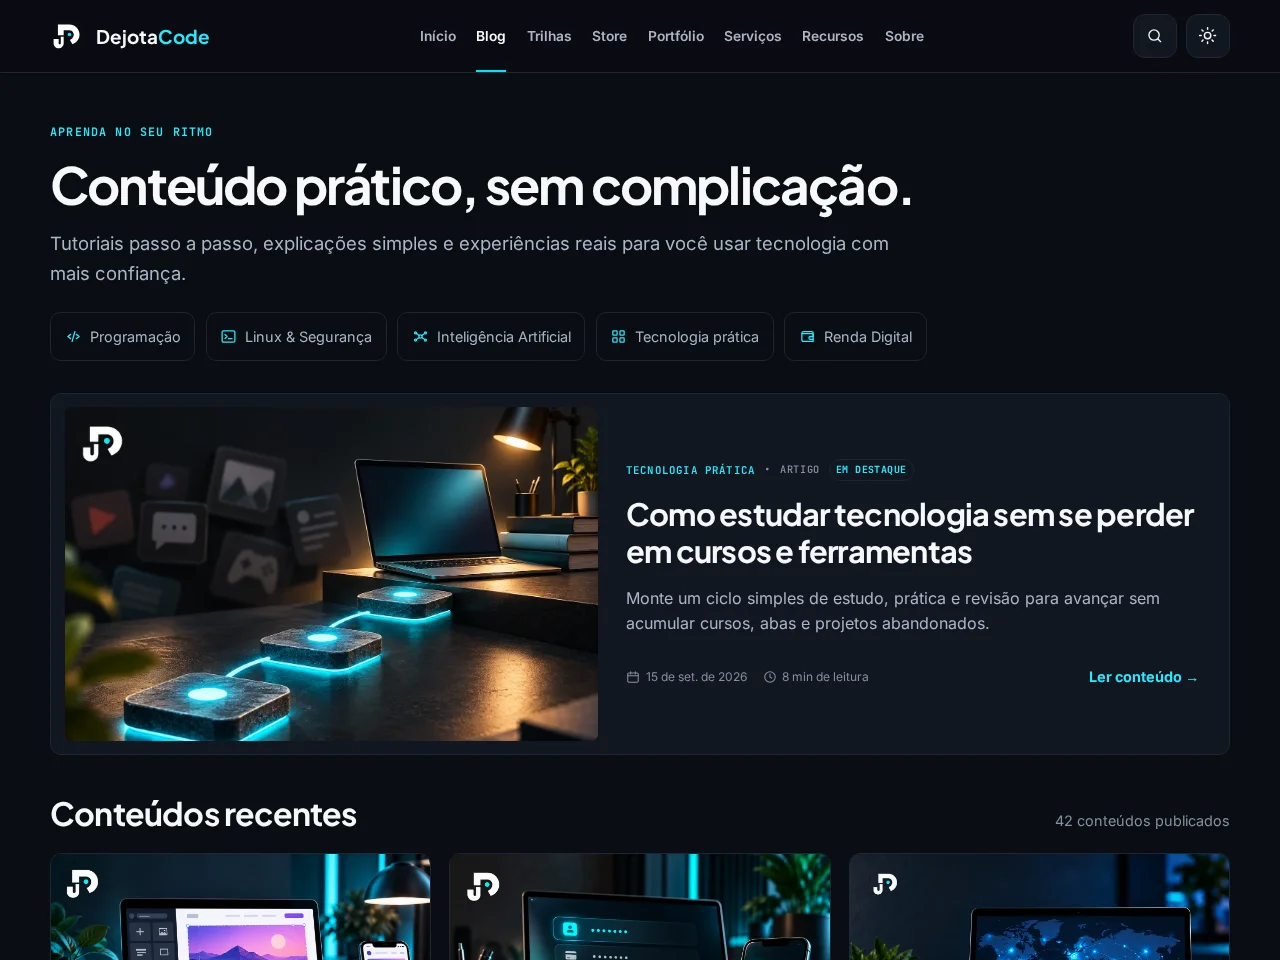
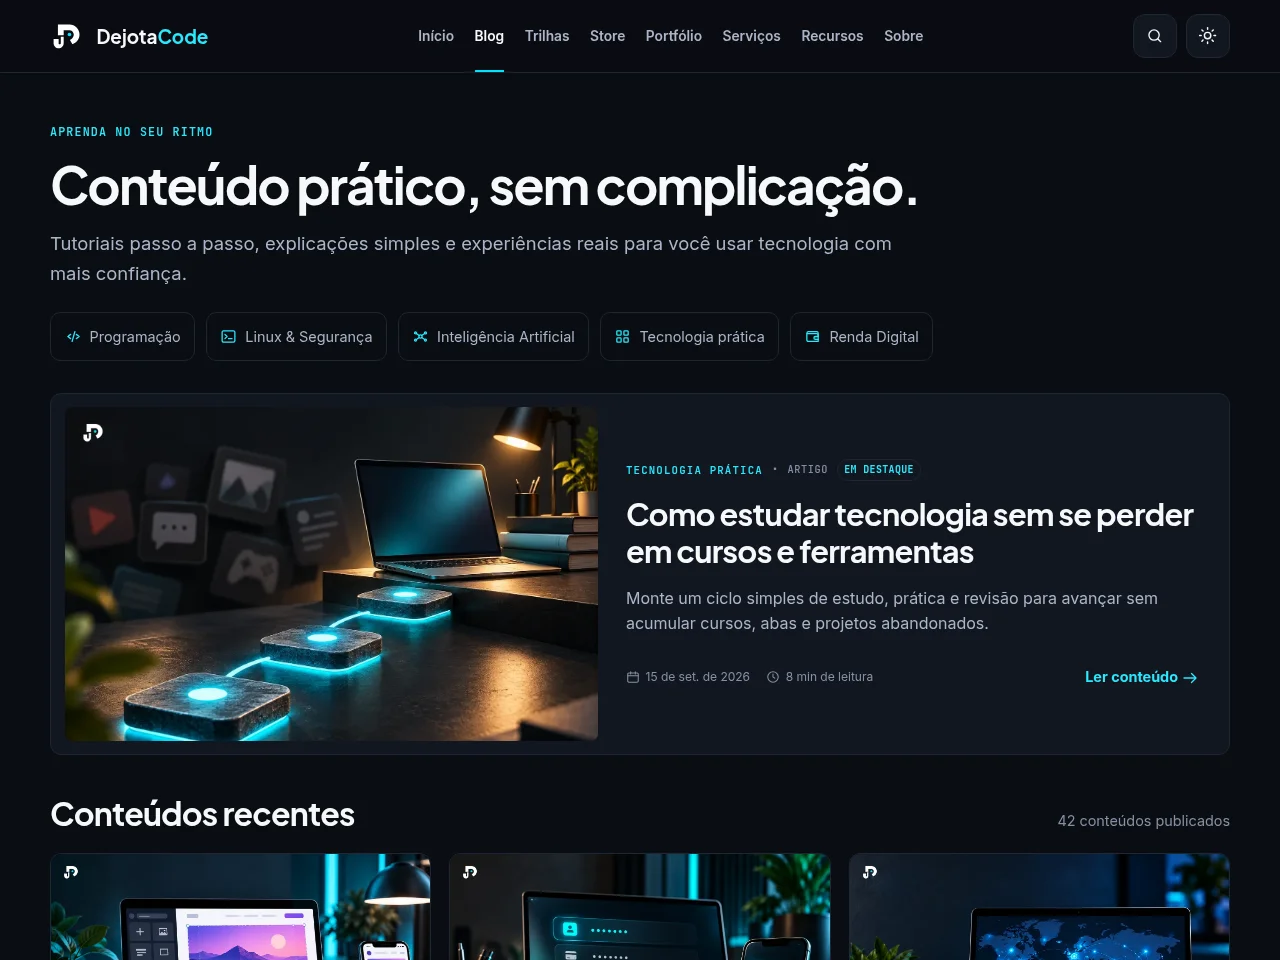
Atualiza capturas do Portfólio e notebook após assinaturas

diff --git a/docs/frontend-review.md b/docs/frontend-review.md
@@ -350,3 +350,9 @@ WebP qualidade 90: lote de 38,63 para 6,16 MiB, redução de 84,1%. Mestres loss
 Recortes ancorados no topo esquerdo para as novas assinaturas em VisualMedia, StoreCard, hero Home e recomendações de artigos. Degradê da Home preservado; ele atenua decorativamente o símbolo na borda da mídia, sem alterar o raster ou duplicar a marca.
 Validação final: check 78 arquivos sem erros/avisos/hints, build 115 páginas, QA de links/HTML aprovado. 81 rotas × 320/390/768/1440 × claro/escuro = 648 combinações, 2.088 instâncias das novas imagens carregadas; zero overflow e caixas de assinatura integralmente dentro dos recortes. Capturas Store desktop, artigo mobile e Home desktop inspecionadas. Teste intermediário interrompido por recarga do preview durante edição; rodada final estável passou e substitui o resultado intermediário. Sem acessos externos, envios reais ou publicação.
 Evidência resumida: docs/brand/signature-integration-validation.json. Galeria http://localhost:4323/ agora exibe exportações finais; preview do site http://localhost:4321/. Não iniciar 4322. Publicação continua sem autorização; arquivo preexistente Ottocast não incluído nesta alteração.
+
+
+## Capturas sincronizadas após assinaturas — 09/10/2026
+Portfólio: Home, Blog e Trilhas recapturadas do preview 4321, 1280 × 960, escuro; notebook Serviços: Home 1440 × 900, escuro. Mantidos os caminhos estáveis, proporções, moldura CSS e links. Fontes/imagens aguardadas, toolbar oculta por regra persistente durante captura; WebP qualidade 85. Nenhuma assinatura adicionada às capturas reais. Inventário atualizado.
+Check 78 arquivos sem erros/avisos/hints; build 115 páginas; QA de links/HTML aprovado. Portfólio e Serviços em 320/390/768/1440 e claro/escuro: 16 combinações sem overflow, com capturas carregadas. Blog e tela do notebook inspecionados visualmente. Apenas quatro rasters de captura e registros alterados; nada publicado. Frontend continua 4321.
+Padrão de assinaturas e atualização das capturas concluídos localmente. Setup e Termos continuam pendências de confirmação/conteúdo conforme revisão dos esboços; esta atualização não os resolve por inferência.

diff --git a/docs/consolidacao-local-2026-10-09.md b/docs/consolidacao-local-2026-10-09.md
@@ -83,3 +83,9 @@ WebP qualidade 90: lote de 38,63 para 6,16 MiB, redução de 84,1%. Mestres loss
 Recortes ancorados no topo esquerdo para as novas assinaturas em VisualMedia, StoreCard, hero Home e recomendações de artigos. Degradê da Home preservado; ele atenua decorativamente o símbolo na borda da mídia, sem alterar o raster ou duplicar a marca.
 Validação final: check 78 arquivos sem erros/avisos/hints, build 115 páginas, QA de links/HTML aprovado. 81 rotas × 320/390/768/1440 × claro/escuro = 648 combinações, 2.088 instâncias das novas imagens carregadas; zero overflow e caixas de assinatura integralmente dentro dos recortes. Capturas Store desktop, artigo mobile e Home desktop inspecionadas. Teste intermediário interrompido por recarga do preview durante edição; rodada final estável passou e substitui o resultado intermediário. Sem acessos externos, envios reais ou publicação.
 Evidência resumida: docs/brand/signature-integration-validation.json. Galeria http://localhost:4323/ agora exibe exportações finais; preview do site http://localhost:4321/. Não iniciar 4322. Publicação continua sem autorização; arquivo preexistente Ottocast não incluído nesta alteração.
+
+
+## Capturas sincronizadas após assinaturas — 09/10/2026
+Portfólio: Home, Blog e Trilhas recapturadas do preview 4321, 1280 × 960, escuro; notebook Serviços: Home 1440 × 900, escuro. Mantidos os caminhos estáveis, proporções, moldura CSS e links. Fontes/imagens aguardadas, toolbar oculta por regra persistente durante captura; WebP qualidade 85. Nenhuma assinatura adicionada às capturas reais. Inventário atualizado.
+Check 78 arquivos sem erros/avisos/hints; build 115 páginas; QA de links/HTML aprovado. Portfólio e Serviços em 320/390/768/1440 e claro/escuro: 16 combinações sem overflow, com capturas carregadas. Blog e tela do notebook inspecionados visualmente. Apenas quatro rasters de captura e registros alterados; nada publicado. Frontend continua 4321.
+Padrão de assinaturas e atualização das capturas concluídos localmente. Setup e Termos continuam pendências de confirmação/conteúdo conforme revisão dos esboços; esta atualização não os resolve por inferência.

diff --git a/docs/media-registry.md b/docs/media-registry.md
@@ -79,3 +79,9 @@ WebP qualidade 90: lote de 38,63 para 6,16 MiB, redução de 84,1%. Mestres loss
 Recortes ancorados no topo esquerdo para as novas assinaturas em VisualMedia, StoreCard, hero Home e recomendações de artigos. Degradê da Home preservado; ele atenua decorativamente o símbolo na borda da mídia, sem alterar o raster ou duplicar a marca.
 Validação final: check 78 arquivos sem erros/avisos/hints, build 115 páginas, QA de links/HTML aprovado. 81 rotas × 320/390/768/1440 × claro/escuro = 648 combinações, 2.088 instâncias das novas imagens carregadas; zero overflow e caixas de assinatura integralmente dentro dos recortes. Capturas Store desktop, artigo mobile e Home desktop inspecionadas. Teste intermediário interrompido por recarga do preview durante edição; rodada final estável passou e substitui o resultado intermediário. Sem acessos externos, envios reais ou publicação.
 Evidência resumida: docs/brand/signature-integration-validation.json. Galeria http://localhost:4323/ agora exibe exportações finais; preview do site http://localhost:4321/. Não iniciar 4322. Publicação continua sem autorização; arquivo preexistente Ottocast não incluído nesta alteração.
+
+
+## Capturas sincronizadas após assinaturas — 09/10/2026
+Portfólio: Home, Blog e Trilhas recapturadas do preview 4321, 1280 × 960, escuro; notebook Serviços: Home 1440 × 900, escuro. Mantidos os caminhos estáveis, proporções, moldura CSS e links. Fontes/imagens aguardadas, toolbar oculta por regra persistente durante captura; WebP qualidade 85. Nenhuma assinatura adicionada às capturas reais. Inventário atualizado.
+Check 78 arquivos sem erros/avisos/hints; build 115 páginas; QA de links/HTML aprovado. Portfólio e Serviços em 320/390/768/1440 e claro/escuro: 16 combinações sem overflow, com capturas carregadas. Blog e tela do notebook inspecionados visualmente. Apenas quatro rasters de captura e registros alterados; nada publicado. Frontend continua 4321.
+Padrão de assinaturas e atualização das capturas concluídos localmente. Setup e Termos continuam pendências de confirmação/conteúdo conforme revisão dos esboços; esta atualização não os resolve por inferência.
